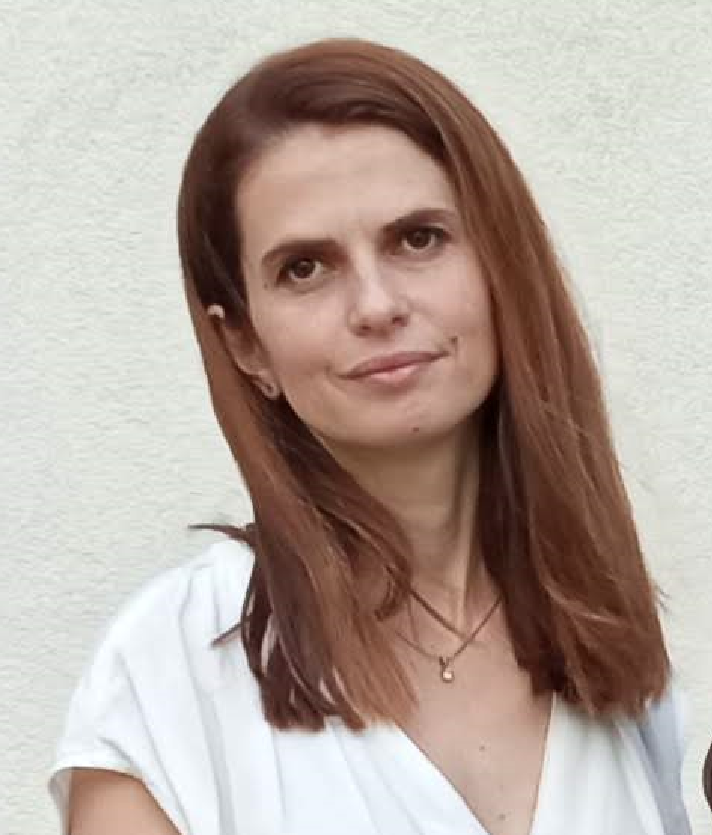
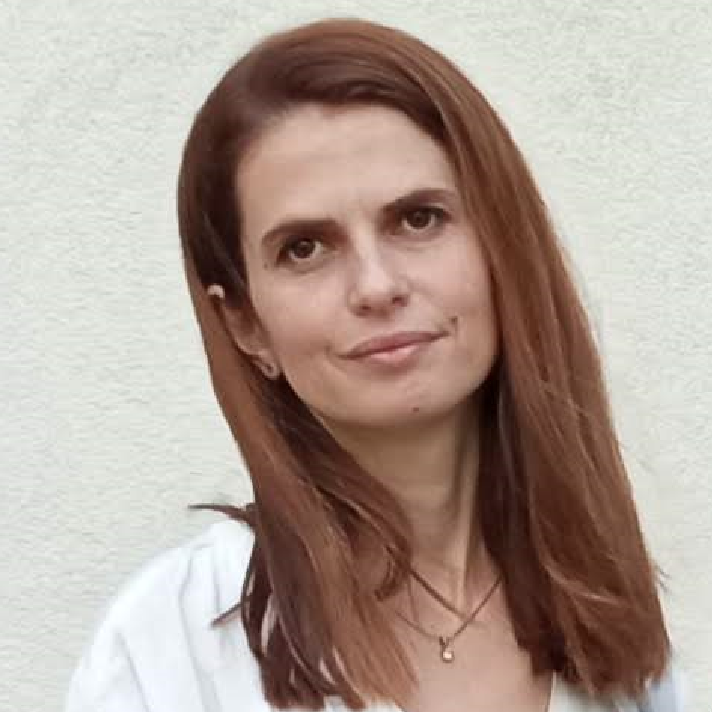
correction of image displying

diff --git a/src/components/Image/index.js b/src/components/Image/index.js
@@ -1,9 +1,14 @@
 import styled from "styled-components";
 
 export const Image = styled.img`
-  height: 384px;
-  max-width: 330px;
+  max-height: 384px;
+  max-width: 384px;
   border-radius: 50% 50% 50% 50%;
   padding: 1px;
-  aspect-ratio: 4 /5;
+  aspect-ratio: 1 /1;
+  padding-bottom: 16px;
+
+  @media (max-width: ${({ theme }) => theme.breakpoint.large}) {
+    margin-bottom: 0px;
+  }
 `;

diff --git a/src/components/Icons/styled.js b/src/components/Icons/styled.js
@@ -3,11 +3,6 @@ import styled from "styled-components";
 export const IconWrapper = styled.div`
   height: 48px;
 
-  @media (max-width: ${({ theme }) => theme.breakpoint.small}) {
-    height: 32px;
-    margin: 16px;
-  }
-
   &:hover {
     filter: contrast(80%);
   }

diff --git a/src/components/StyledButton/styled.js b/src/components/StyledButton/styled.js
@@ -7,6 +7,7 @@ export const Button = styled.div`
   background-color: ${({ theme }) => theme.color.additives};
   cursor: pointer;
   margin-left: 36px;
+  margin-bottom: 16px;
   display: flex;
   justify-content: center;
   align-items: center;

diff --git a/src/styled.js b/src/styled.js
@@ -5,6 +5,7 @@ export const Sections = styled.article`
   display: flex;
   flex-direction: row;
   justify-content: center;
+  align-items: center;
 
   @media (max-width: ${({ theme }) => theme.breakpoint.small}) {
     flex-direction: column;
